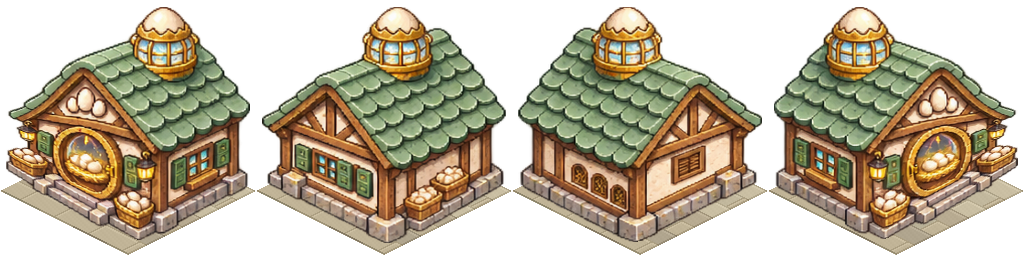
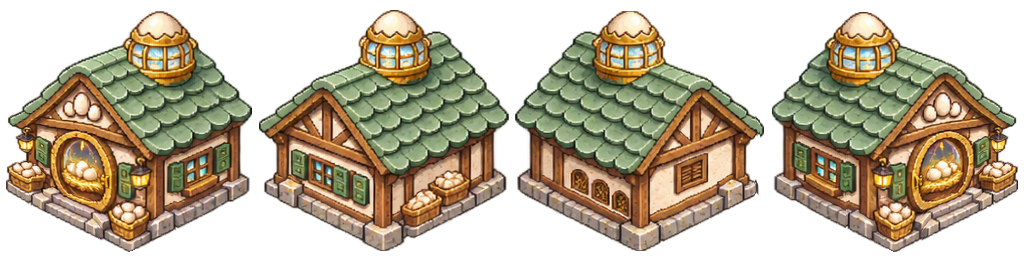
Seat the three reported cottage foundations on all four sides of the plot

diff --git a/work/town-foundations-12585/register.py b/work/town-foundations-12585/register.py
@@ -1,0 +1,95 @@
+"""Fit the illustrated bases to the ground projection; never count a paved tile as support."""
+import argparse
+import json
+from pathlib import Path
+
+import numpy as np
+from PIL import Image
+from scipy.ndimage import gaussian_filter1d, map_coordinates, maximum_filter1d, median_filter
+
+ROOT = Path(__file__).resolve().parents[2]
+CONTACTS = json.loads(Path(__file__).with_name('contacts.json').read_text())
+
+
+def silhouette(image):
+    alpha = np.asarray(image.getchannel('A'))
+    return np.where(alpha > 127, np.arange(image.height)[:, None] + .5, 0).max(axis=0)
+
+
+def geometry(image, anchors, size):
+    """Return inverse sample coordinates; the three landmarks are left, near and right."""
+    w, h = image.size
+    left, front, right = np.array(anchors) * w / 100
+    # Reserve room for the sign or roof projecting beyond the base at either end.
+    side = max(.035, .5*left/front + .009, .5*(w-right)/(w-front) + .009)
+    contact_x = np.array([left, front, right])
+    contact_y = np.interp(contact_x, np.arange(w)+.5,
+                          median_filter(silhouette(image), size=3))
+    x = np.arange(size) + .5
+    centre = size / 2
+    sx = np.where(x < centre, front + (x-centre)*(front-left)/((.5-side)*size),
+                  front + (x-centre)*(right-front)/((.5-side)*size))
+    floor = np.interp(sx, contact_x, contact_y)
+    for pick, a, b in [(sx<left, 0, 1), (sx>right, 1, 2)]:
+        floor[pick] = contact_y[a] + (sx[pick]-contact_x[a]) * (
+            contact_y[b]-contact_y[a]) / (contact_x[b]-contact_x[a])
+    far = size/2 + abs(x-centre)/2
+    near = size - abs(x-centre)/2
+    target = near - side*size/2
+    # Keep the sill, crates and steps in relief. Only curb local deviations that
+    # would put real supports outside the far or near edge. Suspended signs keep
+    # their original height relative to their wall.
+    bottom = np.interp(sx, np.arange(w)+.5, gaussian_filter1d(silhouette(image), .9))
+    scale = min(.93, .93*h/w)*size/h
+    contact = (sx>=left) & (sx<=right) & (bottom>h*.72)
+    normal = target + scale*(bottom-floor)
+    padding = np.minimum(3.2, (near-far)*.30)
+    adjust = np.clip(normal, far+padding, near-padding)-normal
+    target += gaussian_filter1d(np.where(contact, adjust, 0.), 1.1)
+    # A rounded stone corner can be just one source column wide. Preserve the
+    # corner itself while moving its support inside the front edge.
+    local_max = np.interp(sx, np.arange(w)+.5, maximum_filter1d(silhouette(image), 3))
+    excess = target + scale*(local_max-floor) - (near-2.5)
+    target -= maximum_filter1d(np.maximum(excess,0.), 3)
+    # Warp the lower walls gently while preserving the roof elevation, the
+    # vertical timber lines and the original shading of the source painting.
+    top = max(.021*size, (.987-side/2)*size-scale*contact_y[1])
+    y = np.arange(size)[:,None]+.5
+    progress = np.clip(((y-top)/(target-top)-.38)/.62, 0, 1)
+    blend = progress**2*(3-2*progress)
+    sy = (y-top-blend*(target-top-scale*floor))/scale
+    return sx, sy
+
+
+def register(image, anchors, size):
+    sx, sy = geometry(image, anchors, size)
+    # Premultiplied colour avoids pale fringes on dark roads at night.
+    premultiplied = np.asarray(image.convert('RGBa'), dtype=np.float32)
+    indices = np.stack((sy-.5, np.broadcast_to(sx-.5,sy.shape)))
+    data = np.stack([map_coordinates(premultiplied[:,:,i], indices, order=1,
+                                     mode='constant', cval=0, prefilter=False)
+                     for i in range(4)], axis=2)
+    return Image.fromarray(data.clip(0,255).astype('uint8'),'RGBa').convert('RGBA')
+
+
+def main():
+    ap=argparse.ArgumentParser(description=__doc__)
+    ap.add_argument('--sources',type=Path,default=Path(__file__).with_name('masters'),
+                    help='Lossless sheets containing four trimmed paintings in equal cells')
+    ap.add_argument('--only',nargs='+',choices=CONTACTS)
+    ap.add_argument('--output',type=Path,default=ROOT/'assets/town-axis/painted')
+    args=ap.parse_args()
+    args.output.mkdir(exist_ok=True,parents=True)
+    for key in args.only or CONTACTS:
+        n=384 if key in ('starTerrace','guild212') else 256
+        sheet=Image.new('RGBA',(n*4,n))
+        with Image.open(args.sources/f'{key}.webp') as master:
+            cell = master.width//4
+            for face,anchors in enumerate(CONTACTS[key]):
+                frame=master.crop((cell*face,0,cell*(face+1),master.height))
+                src=frame.crop(frame.getchannel('A').getbbox())
+                sheet.paste(register(src,anchors,n),(face*n,0))
+        sheet.save(args.output/f'{key}.webp', lossless=True, method=6, exact=True)
+
+if __name__=='__main__':
+    main()

diff --git a/releases/1.25.85/PROGRESS.md b/releases/1.25.85/PROGRESS.md
@@ -1,0 +1,8 @@
+# 1.25.85　建築の足元と敷地
+
+- 対象バージョン　公開版1.25.84から1.25.85へ。
+- 保存先　作業ブランチ `fix/town-foundations-1.25.85`。元の絵と接地点は `work/town-foundations-12585/`、ゲームに組み込む四方向の絵は `assets/town-axis/painted/`、記録はこのファイル。
+- 完了事項　指摘画像のたまご観察小屋・おやつの瓶詰め小屋・遊具の修繕小屋を、元の絵から四方向とも合わせ直した。石の土台・かご・棚の下を実際の敷地に収め、浮いて見えていた二重の敷石を外した。
+- 確認結果　旧版では四角い背景を含めて手前の辺しか調べていなかった。今回は背景を外し、土台そのものの左右から手前にかけて奥側・手前側の両方の境界を照合。指摘の3棟の新しい12方向で接地を確認。
+- 残作業　同じ原因が見つかったほかの向きの修正、時間・季節の表示位置、両版のセーブと実際の道沿いでの検証、公開。
+- 次の操作　ほかの建築の接地点と、棚の脚を個別に確認する。
